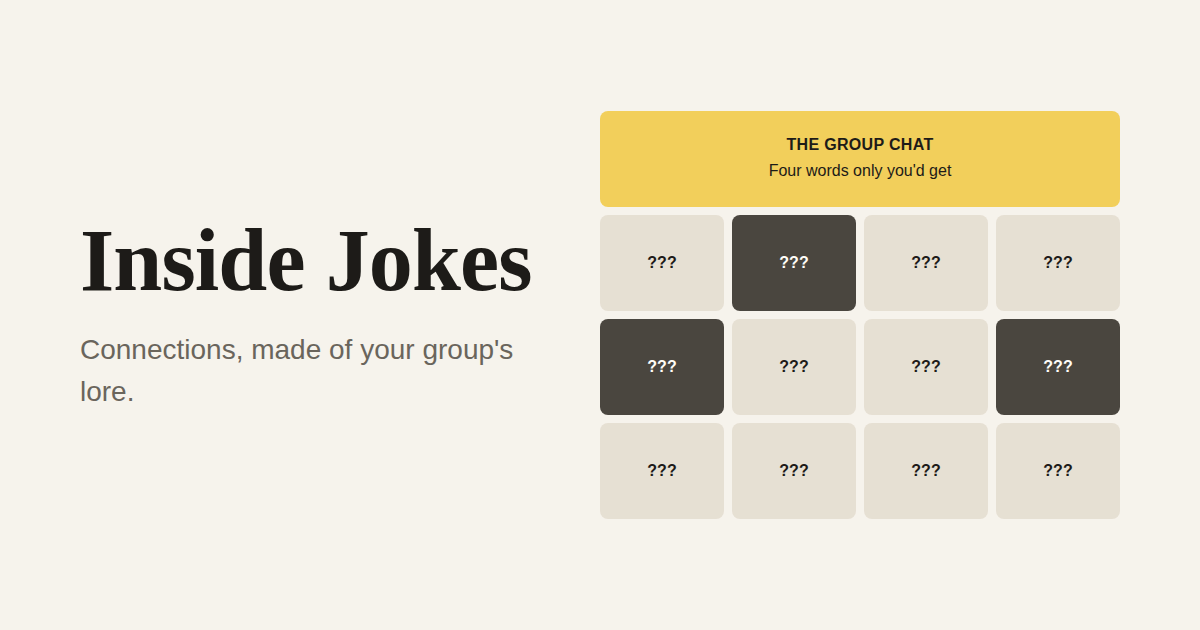
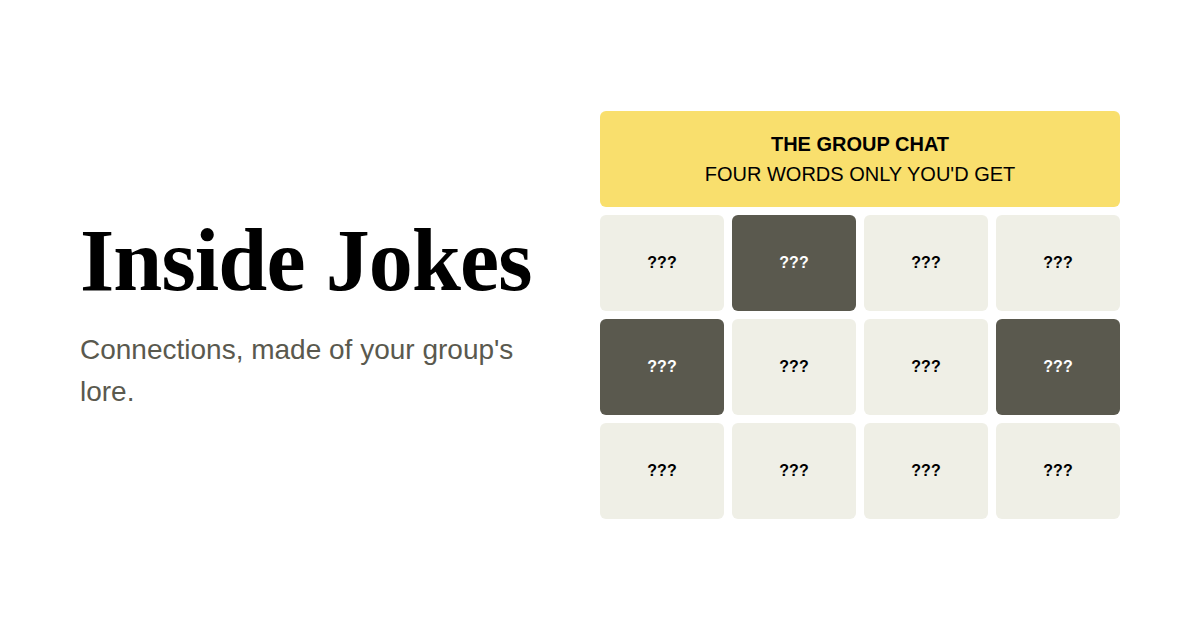
Inside Jokes: match the Connections board look
White page, putty tiles in bold caps, dark-olive picks, pill buttons,
'Mistakes Remaining' dots, and the yellow/green/blue/purple group colours
(purple share square too). Long words step down in size, then tighten,
before they ever break.

Claude-Session: https://claude.ai/code/session_01D5CFJLZRuW3j48zomaMdaR

diff --git a/inside-jokes/styles.css b/inside-jokes/styles.css
@@ -1,11 +1,12 @@
 /* Inside Jokes
-   A newspaper puzzle page: warm paper, black ink, putty tiles. Fraunces for
-   headings, Libre Franklin for everything else (tiles in its heavy caps).
-   4px spacing scale, two radii, a 1px line is the only depth. Group colours
-   run yellow, green, blue, red, easiest to hardest. Motion only answers a
-   guess; none under reduced motion. Contrast checked for WCAG AA: ink 15:1
-   on paper and 11:1 on a tile, muted 5.6:1 on paper, ink 9:1 or better on
-   every group colour. */
+   Built to feel like the Connections board friends already play: white
+   page, putty tiles in bold caps, a dark-olive pick, pill buttons, and the
+   four group colours yellow, green, blue, purple (flat fills, easiest to
+   hardest). Fraunces for page headings, Libre Franklin for the game.
+   4px spacing scale, two radii, a 1px line is the only depth. Motion only
+   answers a guess; none under reduced motion. Contrast for WCAG AA: black
+   on a tile 17:1, white on a pick 7:1, muted 7:1 on white, black 7:1 or
+   better on every group colour. */
 
 :root {
   /* Spacing (4px scale) */
@@ -26,11 +27,12 @@
   --t-xs: 12px;
   --t-sm: 14px;
   --t-body: 16px;
+  --t-lg: 20px;
   --t-h2: 24px;
   --t-h1: 36px;
 
   /* Shape */
-  --radius: 8px;
+  --radius: 6px;
   --radius-pill: 999px;
   --container: 600px;
   --tap: 48px;
@@ -42,19 +44,20 @@
   --ease: cubic-bezier(.2, .8, .2, 1);
 
   /* Colour */
-  --paper: #f6f3ec;
-  --surface: #fffdf8;
-  --ink: #1d1b18;
-  --muted: #6a655c;
-  --line: #d9d3c6;
-  --tile: #e6e0d3;
-  --tile-hover: #dcd5c6;
-  --picked: #4a463f;
-  --on-picked: #fffdf8;
-  --g0: #f2cf5b; /* yellow, easiest */
-  --g1: #a6c77a; /* green */
-  --g2: #a9c8e8; /* blue */
-  --g3: #eb9a86; /* red, hardest */
+  --paper: #ffffff;
+  --surface: #ffffff;
+  --ink: #000000;
+  --muted: #5a594e;
+  --line: #dcdcd4;
+  --tile: #efefe6;
+  --tile-hover: #e6e6dc;
+  --picked: #5a594e;
+  --on-picked: #ffffff;
+  --disabled: #8a8a82;
+  --g0: #f9df6d; /* yellow, easiest */
+  --g1: #a0c35a; /* green */
+  --g2: #b0c4ef; /* blue */
+  --g3: #ba81c5; /* purple, hardest */
   --focus: #2458c6;
   --error: #b3261e;
   color-scheme: light;
@@ -143,9 +146,9 @@ main.container { padding-top: var(--s-8); padding-bottom: var(--s-16); }
 .group[data-g="1"] { background: var(--g1); }
 .group[data-g="2"] { background: var(--g2); }
 .group[data-g="3"] { background: var(--g3); }
-.group__name { font: 800 var(--t-body) / 1.3 var(--text); text-transform: uppercase; letter-spacing: 0.02em; }
-.group__words { font-size: var(--t-body); }
-.group__why { font-size: var(--t-sm); }
+.group__name { font: 700 var(--t-body) / 1.3 var(--text); text-transform: uppercase; }
+.group__words { font-size: var(--t-body); line-height: 1.3; text-transform: uppercase; }
+.group__why { font-size: var(--t-sm); line-height: 1.4; }
 .group__why:empty { display: none; }
 
 .grid { display: grid; grid-template-columns: repeat(4, 1fr); gap: var(--s-2); }
@@ -157,7 +160,7 @@ main.container { padding-top: var(--s-8); padding-bottom: var(--s-16); }
   border-radius: var(--radius);
   background: var(--tile);
   color: var(--ink);
-  font: 800 var(--t-body) / 1.15 var(--text);
+  font: 700 var(--t-body) / 1.15 var(--text);
   text-transform: uppercase;
   overflow: hidden;
   overflow-wrap: normal;
@@ -165,7 +168,8 @@ main.container { padding-top: var(--s-8); padding-bottom: var(--s-16); }
   transition: background-color var(--t-feedback) var(--ease), color var(--t-feedback) var(--ease);
 }
 .tile--mid { font-size: var(--t-sm); }
-.tile--long, .tile--break { font-size: var(--t-xs); }
+.tile--long, .tile--tight, .tile--break { font-size: var(--t-xs); }
+.tile--tight, .tile--break { padding-inline: 0; letter-spacing: -0.03em; }
 .tile--break { hyphens: auto; overflow-wrap: anywhere; }
 .tile:hover { background: var(--tile-hover); }
 .tile[aria-pressed="true"] { background: var(--picked); color: var(--on-picked); }
@@ -183,8 +187,9 @@ main.container { padding-top: var(--s-8); padding-bottom: var(--s-16); }
 
 .mistakes { display: flex; align-items: center; justify-content: center; gap: var(--s-3); }
 .dots { display: inline-flex; gap: var(--s-2); }
-.dot { width: var(--s-3); height: var(--s-3); border-radius: var(--radius-pill); background: var(--picked); }
-.dot--used { background: var(--line); }
+.mistakes__label { font-size: var(--t-body); color: var(--muted); }
+.dot { width: var(--s-4); height: var(--s-4); border-radius: var(--radius-pill); background: var(--picked); }
+.dot--used { visibility: hidden; }
 
 .controls { display: grid; gap: var(--s-3); }
 .toast { min-height: 1.5em; text-align: center; font-weight: 600; }
@@ -203,10 +208,12 @@ main.container { padding-top: var(--s-8); padding-bottom: var(--s-16); }
   cursor: pointer;
   transition: background-color var(--t-feedback) var(--ease), color var(--t-feedback) var(--ease), border-color var(--t-feedback) var(--ease);
 }
+.btn { padding: 0 var(--s-6); }
 .btn:hover:not(:disabled) { background: var(--tile); }
 .btn--primary { background: var(--ink); color: var(--surface); }
 .btn--primary:hover:not(:disabled) { background: var(--picked); }
-.btn:disabled { border-color: var(--line); color: var(--muted); background: transparent; cursor: default; }
+.btn:disabled { border-color: var(--disabled); color: var(--disabled); background: transparent; cursor: default; }
+.actions--center .btn { padding: 0 var(--s-4); }
 .link-btn { padding: 0; border: 0; background: none; color: inherit; font: inherit; text-decoration: underline; text-underline-offset: 3px; cursor: pointer; }
 .link-btn:hover { color: var(--ink); }
 
@@ -251,8 +258,20 @@ main.container { padding-top: var(--s-8); padding-bottom: var(--s-16); }
 
 .footer { padding-top: var(--s-6); padding-bottom: var(--s-10); border-top: 1px solid var(--line); color: var(--muted); font-size: var(--t-xs); }
 
+/* Play header: the puzzle's name and the one-line instruction, centred. */
+.play-head { display: grid; gap: var(--s-2); text-align: center; justify-items: center; }
+.play-title { font: 700 var(--t-h2) / 1.2 var(--display); }
+.play-by { color: var(--muted); font-size: var(--t-sm); }
+.play-by:empty { display: none; }
+.play-prompt { font-size: var(--t-body); }
+.play-head .notice { text-align: left; }
+
 @media (min-width: 560px) {
   :root { --t-h1: 44px; }
+  .tile, .group__name, .group__words { font-size: var(--t-lg); }
+  .tile--mid { font-size: var(--t-body); }
+  .tile--long, .tile--tight, .tile--break { font-size: var(--t-sm); }
+  .play-prompt { font-size: var(--t-lg); }
 }
 @media (max-width: 400px) {
   .nav { gap: var(--s-3); }

diff --git a/inside-jokes/index.html b/inside-jokes/index.html
@@ -16,13 +16,13 @@
     <meta property="og:image:alt" content="Inside Jokes: a four-by-four grid of word tiles, with the top row solved in yellow." />
     <meta name="twitter:card" content="summary_large_image" />
     <meta name="robots" content="noindex" />
-    <meta name="theme-color" content="#f6f3ec" />
+    <meta name="theme-color" content="#ffffff" />
     <link rel="icon" href="favicon.svg" type="image/svg+xml" />
     <link rel="preconnect" href="https://fonts.googleapis.com" />
     <link rel="preconnect" href="https://fonts.gstatic.com" crossorigin />
-    <link rel="preload" as="style" href="https://fonts.googleapis.com/css2?family=Fraunces:opsz,wght@9..144,700&family=Libre+Franklin:wght@400;600;800&display=swap" />
-    <link href="https://fonts.googleapis.com/css2?family=Fraunces:opsz,wght@9..144,700&family=Libre+Franklin:wght@400;600;800&display=swap" rel="stylesheet" media="print" onload="this.media='all'" />
-    <noscript><link href="https://fonts.googleapis.com/css2?family=Fraunces:opsz,wght@9..144,700&family=Libre+Franklin:wght@400;600;800&display=swap" rel="stylesheet" /></noscript>
+    <link rel="preload" as="style" href="https://fonts.googleapis.com/css2?family=Fraunces:opsz,wght@9..144,700&family=Libre+Franklin:wght@400;600;700&display=swap" />
+    <link href="https://fonts.googleapis.com/css2?family=Fraunces:opsz,wght@9..144,700&family=Libre+Franklin:wght@400;600;700&display=swap" rel="stylesheet" media="print" onload="this.media='all'" />
+    <noscript><link href="https://fonts.googleapis.com/css2?family=Fraunces:opsz,wght@9..144,700&family=Libre+Franklin:wght@400;600;700&display=swap" rel="stylesheet" /></noscript>
     <link rel="stylesheet" href="styles.css?v=dev" />
   </head>
   <body>
@@ -50,10 +50,10 @@
     <main class="container">
       <!-- Play -->
       <section id="s-play" class="screen" aria-labelledby="p-title">
-        <div class="intro">
-          <p class="eyebrow" id="p-by"></p>
-          <h1 id="p-title">Inside Jokes</h1>
-          <p class="lede">Find the four groups of four. Only someone who was there will get all of them.</p>
+        <div class="play-head">
+          <h1 class="play-title" id="p-title">Inside Jokes</h1>
+          <p class="play-by" id="p-by"></p>
+          <p class="play-prompt">Create four groups of four!</p>
           <p class="notice" id="p-example" hidden>This is an example puzzle. To put your group's lore in, use <a href="#make">Make a puzzle</a>.</p>
         </div>
 
@@ -69,7 +69,7 @@
 
         <div class="controls">
         <div class="mistakes" id="mistakes-row">
-          <span class="field__label">Mistakes left</span>
+          <span class="mistakes__label" aria-hidden="true">Mistakes Remaining:</span>
           <span class="dots" id="dots" aria-hidden="true"></span>
           <span class="sr-only" id="mistakes-sr"></span>
         </div>
@@ -78,7 +78,7 @@
 
         <div class="actions actions--center" id="play-actions">
           <button class="btn" type="button" id="shuffle">Shuffle</button>
-          <button class="btn" type="button" id="deselect" disabled>Deselect all</button>
+          <button class="btn" type="button" id="deselect" disabled>Deselect All</button>
           <button class="btn btn--primary" type="button" id="submit" disabled>Submit</button>
         </div>
         </div>

diff --git a/inside-jokes/app.js b/inside-jokes/app.js
@@ -3,7 +3,7 @@
 // #p=<code> (a puzzle carried in the link), #make (the maker).
 (() => {
   const $ = (id) => document.getElementById(id);
-  const COLOURS = ['Yellow', 'Green', 'Blue', 'Red'];
+  const COLOURS = ['Yellow', 'Green', 'Blue', 'Purple'];
   const LEVELS = ['easiest', 'medium', 'hard', 'hardest'];
 
   // Storage can be missing or throw (private windows); the game works without it.
@@ -110,7 +110,7 @@
 
   // Step each tile's type down until its longest word fits on one line;
   // only a word too long even at the smallest size breaks mid-word.
-  const FITS = ['tile--mid', 'tile--long', 'tile--break'];
+  const FITS = ['tile--mid', 'tile--long', 'tile--tight', 'tile--break'];
   function fitTiles() {
     document.querySelectorAll('.tile').forEach((t) => {
       t.classList.remove(...FITS);

diff --git a/inside-jokes/puzzles.js b/inside-jokes/puzzles.js
@@ -2,7 +2,7 @@
 // lists the rest. Make one on the site (Make a puzzle), check it plays, then
 // paste its fields here to keep it at the plain home-page link.
 //
-// Groups go easiest to hardest: yellow, green, blue, red. `why` is the story
+// Groups go easiest to hardest: yellow, green, blue, purple. `why` is the story
 // behind the bit, shown once the group is solved; leave it '' to skip it.
 // `example: true` labels a puzzle as sample content on the page.
 const Puzzles = [

diff --git a/inside-jokes/game.js b/inside-jokes/game.js
@@ -116,7 +116,7 @@ const Game = (() => {
   }
 
   // One row of colour squares per guess, as in the original's share text.
-  const SQUARES = ['\u{1F7E8}', '\u{1F7E9}', '\u{1F7E6}', '\u{1F7E5}'];
+  const SQUARES = ['\u{1F7E8}', '\u{1F7E9}', '\u{1F7E6}', '\u{1F7EA}'];
   function shareText(p, history, url) {
     const past = [];
     const rows = [];

diff --git a/inside-jokes/README.md b/inside-jokes/README.md
@@ -6,7 +6,7 @@ https://seanjoudrie.github.io/SeanJoudrie/inside-jokes/ once `main` deploys.
 ## Making a puzzle
 
 1. Open **Make a puzzle** on the site.
-2. Fill in four groups of four, easiest (yellow) to hardest (red). Each group gets a
+2. Fill in four groups of four, easiest (yellow) to hardest (purple). Each group gets a
    connection name, four words and an optional story that shows once it's solved.
 3. **Copy link** and send it to the group. The whole puzzle lives in the link after `#p=`,
    so nothing is uploaded and nobody needs an account.
